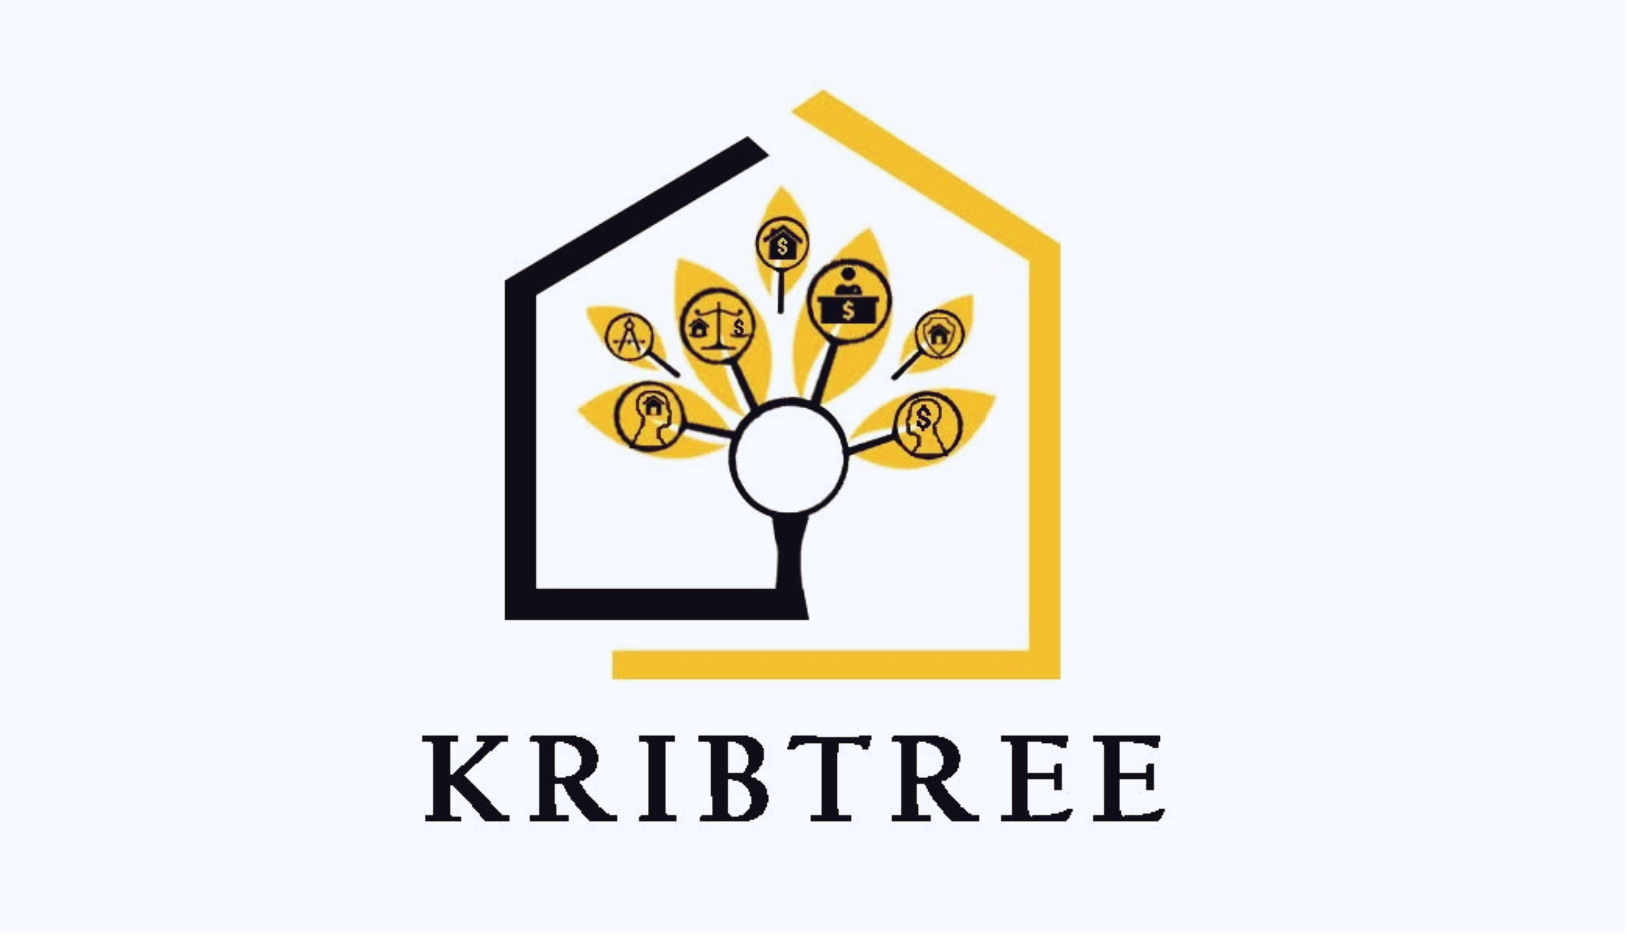
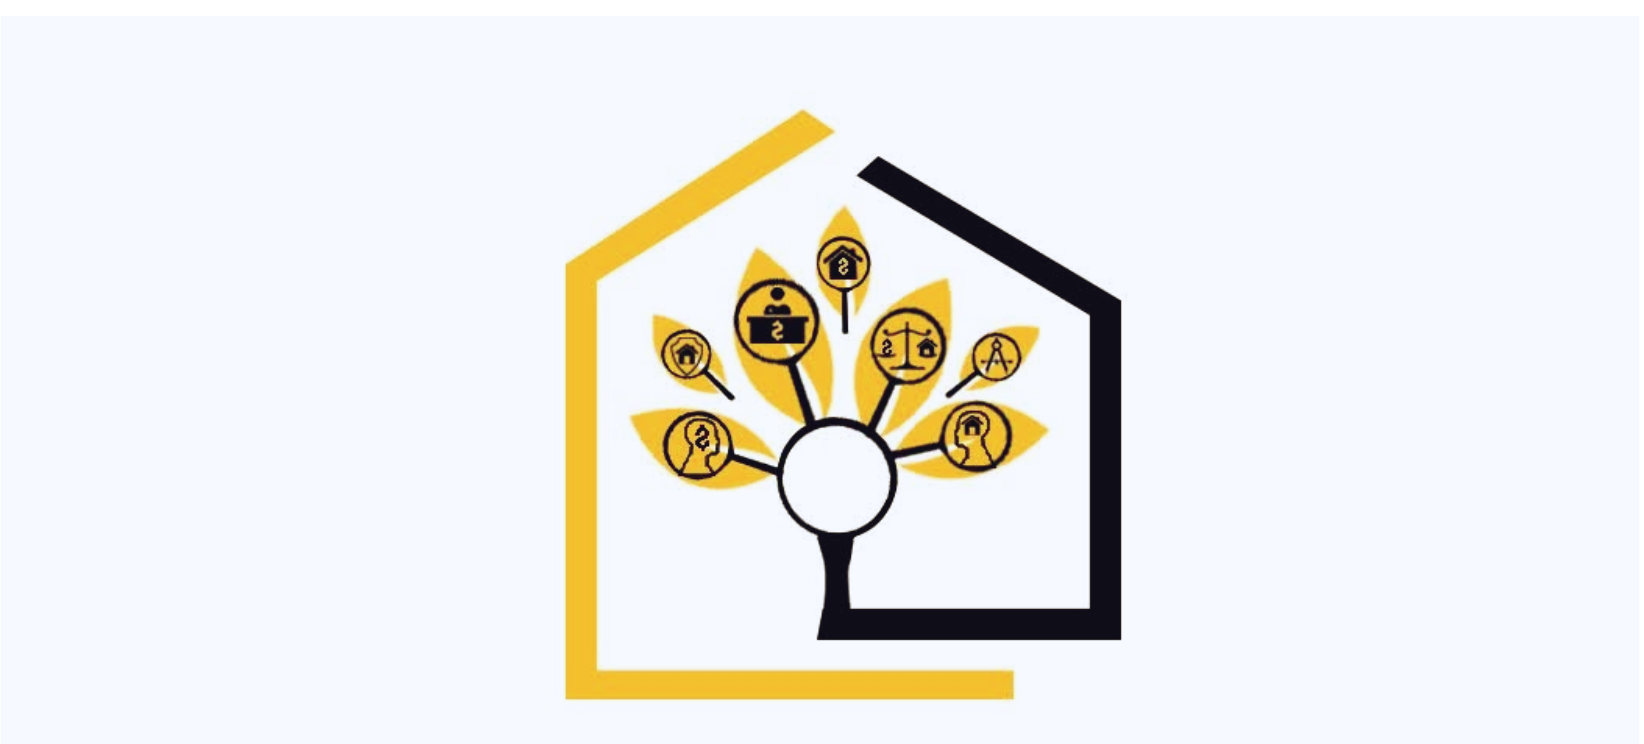
Professional Network page complete

Changed region(s): [[0.2455, 0.0927, 0.706, 0.9583]]

diff --git a/public/frontend/css/style.css b/public/frontend/css/style.css
@@ -1,4 +1,6 @@
 .hide{ display: none !important;}
+.justify{ text-align: justify; }
+h1{ font-family: 'Cinzel', serif; }
 
 body, html {
     background-image: unset;
@@ -94,8 +96,9 @@ a,
 		height: 100vh;
 		left: -250px;
 		position: absolute;
-		top: 3rem;
-		width: 250px;        
+		top: 4.1rem;
+		width: 250px;     
+		z-index: 1;   
 	}
 	.side_menu .container {
 		padding: 0 1em;
@@ -206,3 +209,6 @@ a,
 	.list_item a:hover {
 		background: rgba(255,255,255,.2);
 	}
+
+	/* side_menu { */
+	.list_item .active { background: rgba(255,255,255,.2); }

diff --git a/resources/views/frontend/pages/service-page.blade.php b/resources/views/frontend/pages/service-page.blade.php
@@ -1,44 +1,18 @@
 @extends('frontend.layouts.app')
-<style>.list_item .active { background: rgba(255,255,255,.2); }</style>
 
 @section('content')
 
-    <div class="side_menu">
-        <div class="burger_box">
-            <div class="menu-icon-container">
-                <a href="#" class="menu-icon js-menu_toggle closed">
-                    <span class="menu-icon_box">
-                        <span class="menu-icon_line menu-icon_line--1"></span>
-                        <span class="menu-icon_line menu-icon_line--2"></span>
-                        <span class="menu-icon_line menu-icon_line--3"></span>
-                    </span>
-                </a>
-            </div>
-        </div>
-        <div class="px-3">
-            <h4 class="menu_title pt-2 text-white">Menu Title</h4>
-            <ul class="list_load">
-                <li class="list_item"><a href="{{ Route('who-we-are') }}">Who we are</a></li>
-                
-                <li class="list_item nav-item"><a class="active" href="{{Route('service-page')}}">Service</a></li>
-                <li class="list_item"><a href="#">What we do</a></li>
-                <li class="list_item"><a href="#">How we do it</a></li>
-                <li class="list_item"><a href="#">What they're saying</a></li>
-                <li class="list_item"><a href="#">What we're saying</a></li>
-                <li class="list_item"><a href="#">Find IA</a></li>
-            </ul>
-        </div>
-    </div>
+    @include('frontend.includes.menu-title')
+    
+    <h1 class="text-center my-4">Service list</h1>
 
-    <h2 class="text-center my-4">Service list</h2>
-
-    <div class="row m-4">
+    <div class="row m-4 justify">
         @foreach($Service as $item)
             <div class="col-4 p-3">
                 <div class="card">
                     <h5 class="card-head p-2 text-center" style="height: 50px;">{{$item->title}}</h5>        
                     
-                    <img src="{{$item->image}}" class="card-img-top" alt="...">
+                    <img src="{{$item->image}}" height="200" class="border round card-img-top" alt="...">
                     <div class="card-body">
                         <h5 >{!! $item->details !!}</h5>
                     </div>
@@ -47,7 +21,7 @@
         @endforeach   
     </div>
 
-    <h2 class="text-center my-4">Real Estate Planning Process</h2>
+    <h1 class="text-center my-4">Real Estate Planning Process</h1>
 
     <div class="row m-4">
         @foreach($RealEstate as $item)
@@ -55,7 +29,7 @@
                 <div class="card">
                     <h5 class="card-head p-2 text-center">{{$item->title}}</h5>        
                     
-                    <img src="{{$item->image}}" class="card-img-top" alt="...">
+                    <img src="{{$item->image}}" height="200" class="border round card-img-top" alt="...">
                     <div class="card-body">
                         <h5 >{!! $item->details !!}</h5>
                     </div>

diff --git a/resources/views/backend/index.blade.php b/resources/views/backend/index.blade.php
@@ -85,6 +85,58 @@
                      </div>
                      <a href="{{ route('contact') }}" class="small-box-footer">More info <i class="fas fa-arrow-circle-right"></i></a>
                   </div>
+               </div>    
+
+               <div class="col-lg-3 col-6">
+                  <div class="small-box bg-info">
+                     <div class="inner text-center">
+                        <h3>{{$Service->count()}}</h3>
+                        <p>Service</p>
+                     </div>
+                     <div class="icon">
+                        <i class="ion ion-stats-bars"></i>
+                     </div>
+                     <a href="{{ route('service') }}" class="small-box-footer">More info <i class="fas fa-arrow-circle-right"></i></a>
+                  </div>
+               </div>
+
+               <div class="col-lg-3 col-6">
+                  <div class="small-box bg-primary">
+                     <div class="inner text-center">
+                        <h3>{{$RealEstate->count()}}</h3>
+                        <p>RealEstate</p>
+                     </div>
+                     <div class="icon">
+                        <i class="ion ion-stats-bars"></i>
+                     </div>
+                     <a href="{{ route('service') }}" class="small-box-footer">More info <i class="fas fa-arrow-circle-right"></i></a>
+                  </div>
+               </div>
+
+               <div class="col-lg-3 col-6">
+                  <div class="small-box bg-light">
+                     <div class="inner text-center">
+                        <h3>{{$ProfessionalNetwork->count()}}</h3>
+                        <p>ProfessionalNetwork</p>
+                     </div>
+                     <div class="icon">
+                        <i class="ion ion-stats-bars"></i>
+                     </div>
+                     <a href="{{ route('professional-network') }}" class="small-box-footer">More info <i class="fas fa-arrow-circle-right"></i></a>
+                  </div>
+               </div>
+
+               <div class="col-lg-3 col-6">
+                  <div class="small-box bg-dark">
+                     <div class="inner text-center">
+                        <h3>{{$ProfessionalNetService->count()}}</h3>
+                        <p>ProfessionalNetService</p>
+                     </div>
+                     <div class="icon">
+                        <i class="ion ion-stats-bars"></i>
+                     </div>
+                     <a href="{{ route('professional-network') }}" class="small-box-footer">More info <i class="fas fa-arrow-circle-right"></i></a>
+                  </div>
                </div>
 
             </div>           

diff --git a/resources/views/frontend/includes/menu-title.blade.php b/resources/views/frontend/includes/menu-title.blade.php
@@ -1,0 +1,52 @@
+
+<style>.list_item .active { background: rgba(255,255,255,.2); }</style>
+<div class="side_menu">
+    <div class="burger_box">
+        <div class="menu-icon-container">
+            <a href="#" class="menu-icon js-menu_toggle closed">
+                <span class="menu-icon_box">
+                    <span class="menu-icon_line menu-icon_line--1"></span>
+                    <span class="menu-icon_line menu-icon_line--2"></span>
+                    <span class="menu-icon_line menu-icon_line--3"></span>
+                </span>
+            </a>
+        </div>
+    </div>
+    <div class="px-3">
+        <h4 class="menu_title pt-2 text-white">Menu Title</h4>
+        <ul class="list_load">
+            <li class="list_item">
+                <a class="{{ (request()->routeIs('who-we-are'))  ? 'active' : '' }}" 
+                    href="{{ Route('who-we-are') }}">Who we are</a>
+            </li>
+            <li class="list_item">
+                <a class="{{ (request()->routeIs('service-page'))  ? 'active' : '' }}"
+                    href="{{Route('service-page')}}">Service</a>
+            </li>
+            <li class="list_item">
+                <a class="{{ (request()->routeIs('professional-network-page'))  ? 'active' : '' }}"
+                    href="{{Route('professional-network-page')}}">Professional network</a>
+            </li>
+            <li class="list_item">
+                <a class="{{ (request()->routeIs(''))  ? 'active' : '' }}"
+                    href="#">What we do</a>
+            </li>
+            <li class="list_item">
+                <a class="{{ (request()->routeIs(''))  ? 'active' : '' }}"
+                    href="#">How we do it</a>
+            </li>
+            <li class="list_item">
+                <a class="{{ (request()->routeIs(''))  ? 'active' : '' }}"
+                    href="#">What they're saying</a>
+            </li>
+            <li class="list_item">
+                <a class="{{ (request()->routeIs(''))  ? 'active' : '' }}"
+                    href="#">What we're saying</a>
+            </li>
+            <li class="list_item">
+                <a class="{{ (request()->routeIs(''))  ? 'active' : '' }}"
+                    href="#">Find IA</a>
+            </li>
+        </ul>
+    </div>
+</div>

diff --git a/resources/views/frontend/home.blade.php b/resources/views/frontend/home.blade.php
@@ -7,33 +7,8 @@
     </video>
     <h1 class="centered">IA | Interior Architects</h1>  
     
-    <div class="side_menu">
-        <div class="burger_box">
-            <div class="menu-icon-container">
-                <a href="#" class="menu-icon js-menu_toggle closed">
-                    <span class="menu-icon_box">
-                        <span class="menu-icon_line menu-icon_line--1"></span>
-                        <span class="menu-icon_line menu-icon_line--2"></span>
-                        <span class="menu-icon_line menu-icon_line--3"></span>
-                    </span>
-                </a>
-            </div>
-        </div>
-        <div class="px-3">
-            <h4 class="menu_title pt-2 text-white">Menu Title</h4>
-            <ul class="list_load">
-                <li class="list_item"><a href="{{ Route('who-we-are') }}">Who we are</a></li>
-                
-                <li class="list_item"><a href="{{Route('service-page')}}">Service</a></li>
-                <li class="list_item"><a href="#">What we do</a></li>
-                <li class="list_item"><a href="#">How we do it</a></li>
-                <li class="list_item"><a href="#">What they're saying</a></li>
-                <li class="list_item"><a href="#">What we're saying</a></li>
-                <li class="list_item"><a href="#">Find IA</a></li>
-            </ul>
-        </div>
-    </div> 
-
+    @include('frontend.includes.menu-title')
+   
     @foreach($Home as $item)
         <div class="box">
             <img src="{{$item->image}}" alt="{{$item->title}}" style="width:100%; height:600px;">

diff --git a/app/Http/Controllers/FrontendController.php b/app/Http/Controllers/FrontendController.php
@@ -15,6 +15,10 @@ use App\Models\SocialSite;
 use App\Models\Service;
 use App\Models\RealEstate;
 
+// Professional-network
+use App\Models\ProfessionalNetwork;
+use App\Models\ProfessionalNetService;
+
 class FrontendController extends Controller{
    
    public function index(){
@@ -30,16 +34,24 @@ class FrontendController extends Controller{
       return view('frontend.home', $data);
    }
 
-   //who_we_are page
+   // who_we_are page
    public function who_we_are(){
       $data['info'] = 'This is who we are page';
       return view('frontend.pages.who-we-are', $data);
    }
 
-   //Service page
+   // Service page
    public function service_page(){
       $data['Service'] = Service::where('status', 1)->orderBy('orderBy')->get();
       $data['RealEstate'] = RealEstate::where('status', 1)->orderBy('orderBy')->get();
       return view('frontend.pages.service-page', $data);
    }
+
+   // Professional-network
+   public function professional_network(){
+      $data['ProfessionalNetwork'] = ProfessionalNetwork::where('status', 1)->orderBy('orderBy')->get();
+      $data['ProfessionalNetService'] = ProfessionalNetService::where('status', 1)->orderBy('orderBy')->get();
+      return view('frontend.pages.professional-network', $data);
+   }
+   
 }

diff --git a/resources/views/frontend/pages/professional-network.blade.php b/resources/views/frontend/pages/professional-network.blade.php
@@ -1,0 +1,39 @@
+@extends('frontend.layouts.app')
+
+@section('content')
+
+    @include('frontend.includes.menu-title')
+
+    <h1 class="text-center my-4">Professional Network</h1>
+
+    <div class="row m-4">
+        @foreach($ProfessionalNetwork as $item)
+            <div class="col-4 p-3">
+                <div class="card">
+                    <h5 class="card-head p-2 text-center" style="height: 50px;">{{$item->title}}</h5>        
+                    
+                    <img src="{{$item->image}}" class="border" height="200" alt="...">
+                    <div class="card-body">
+                        <h5 >{!! $item->details !!}</h5>
+                    </div>
+                </div>
+            </div>
+        @endforeach   
+    </div>
+
+    <h1 class="text-center my-4">Professional Network Services</h1>
+
+    <div class="row m-4">
+        @foreach($ProfessionalNetService as $item)
+            <div class="col-4 p-3">
+                <img src="{{$item->image}}" height="500" class="card-img-top" alt="...">
+            </div>
+            <div class="col-8 p-3">               
+                <h5 >{!! $item->details !!}</h5>
+            </div>
+        @endforeach   
+    </div>
+
+
+   
+@endsection

diff --git a/app/Http/Controllers/HomeController.php b/app/Http/Controllers/HomeController.php
@@ -10,7 +10,13 @@ use App\Models\Product;
 use App\Models\UsefullLink;
 use App\Models\Leadership;
 use App\Models\Contact;
-use App\Models\SocialSite;
+use App\Models\SocialSite;   
+
+use App\Models\Service;
+use App\Models\RealEstate;
+
+use App\Models\ProfessionalNetwork;
+use App\Models\ProfessionalNetService;
 
 class HomeController extends Controller{
  
@@ -21,7 +27,13 @@ class HomeController extends Controller{
       $data['UsefullLink'] = UsefullLink::all();
       $data['Leadership'] = Leadership::all(); 
       $data['Contact'] = Contact::all();
-      $data['SocialSite'] = SocialSite::all(); 
+      $data['SocialSite'] = SocialSite::all();
+
+      $data['Service'] = Service::all();
+      $data['RealEstate'] = RealEstate::all(); 
+
+      $data['ProfessionalNetwork'] = ProfessionalNetwork::all();
+      $data['ProfessionalNetService'] = ProfessionalNetService::all();
    
       return view('backend.index', $data);
    }

diff --git a/routes/web.php b/routes/web.php
@@ -89,9 +89,10 @@ Route::middleware(['auth'])->group(function(){
 });
 
 //Front page route
-   Route::get('/who-we-are', 'FrontendController@who_we_are')->name('who-we-are');
-   Route::get('/service-page', 'FrontendController@service_page')->name('service-page');
-
+   Route::get('who-we-are/', 'FrontendController@who_we_are')->name('who-we-are');
+   Route::get('service-page/', 'FrontendController@service_page')->name('service-page');
+   Route::get('professional-network-page/', 'FrontendController@professional_network')->name('professional-network-page');
+  
    // All status change
       Route::get('/status/update', 'HomeController@changeStatus')->name('status');
       Route::get('itemStatus/{id}/{model}/{tab}','BackendController@itemStatus')->name('itemStatus');

diff --git a/resources/views/frontend/includes/header.blade.php b/resources/views/frontend/includes/header.blade.php
@@ -1,7 +1,7 @@
 
-<nav id="navbar_top" class="navbar navbar-expand-md navbar-light navbar-muted shadow-sm bg-light py-0" style="height:3rem;">   
+<nav id="navbar_top" class="navbar navbar-expand-md navbar-light navbar-muted shadow-sm bg-light py-0" style="height:4rem;">   
    <a class="navbar-brand p-0 m-0" href="{{ url('/') }}">
-      <img src="{{asset('images/home.png')}}" alt="Logo" title="Architect Company" width="80" height="70">
+      @include('common.logo')
    </a>
    <button class="navbar-toggler text-primary" type="button" data-toggle="collapse" data-target="#navbarSupportedContent" aria-controls="navbarSupportedContent" aria-expanded="false" aria-label="{{ __('Toggle navigation') }}">
    <span class="navbar-toggler-icon"></span>

diff --git a/resources/views/backend/includes/header.blade.php b/resources/views/backend/includes/header.blade.php
@@ -1,6 +1,6 @@
-<nav id="navbar_top" class="navbar navbar-expand-md navbar-light navbar-muted shadow-sm py-0" style="height:3rem;">   
+<nav id="navbar_top" class="navbar navbar-expand-md navbar-light navbar-muted shadow-sm py-0" style="height:4rem;">   
    <a class="navbar-brand p-0 m-0" href="{{ url('/admin') }}">
-      <img src="{{asset('images/home.png')}}" alt="Logo" title="Architect Company" width="80" height="70">
+      @include('common.logo')
    </a>
    <button class="navbar-toggler text-primary" type="button" data-toggle="collapse" data-target="#navbarSupportedContent" aria-controls="navbarSupportedContent" aria-expanded="false" aria-label="{{ __('Toggle navigation') }}">
    <span class="navbar-toggler-icon"></span>

diff --git a/resources/views/auth/includes/header.blade.php b/resources/views/auth/includes/header.blade.php
@@ -1,7 +1,7 @@
 
-<nav id="navbar_top" class="navbar navbar-expand-md navbar-light navbar-muted shadow-sm bg-light">   
-   <a class="navbar-brand" href="{{ url('/') }}">
-      Victory Loves Preparation
+<nav id="navbar_top" class="navbar navbar-expand-md navbar-light navbar-muted shadow-sm bg-light py-0" style="height:4rem;">   
+   <a class="navbar-brand" href="#">
+      @include('common.logo')
    </a>
    <button class="navbar-toggler text-primary" type="button" data-toggle="collapse" data-target="#navbarSupportedContent" aria-controls="navbarSupportedContent" aria-expanded="false" aria-label="{{ __('Toggle navigation') }}">
    <span class="navbar-toggler-icon"></span>
